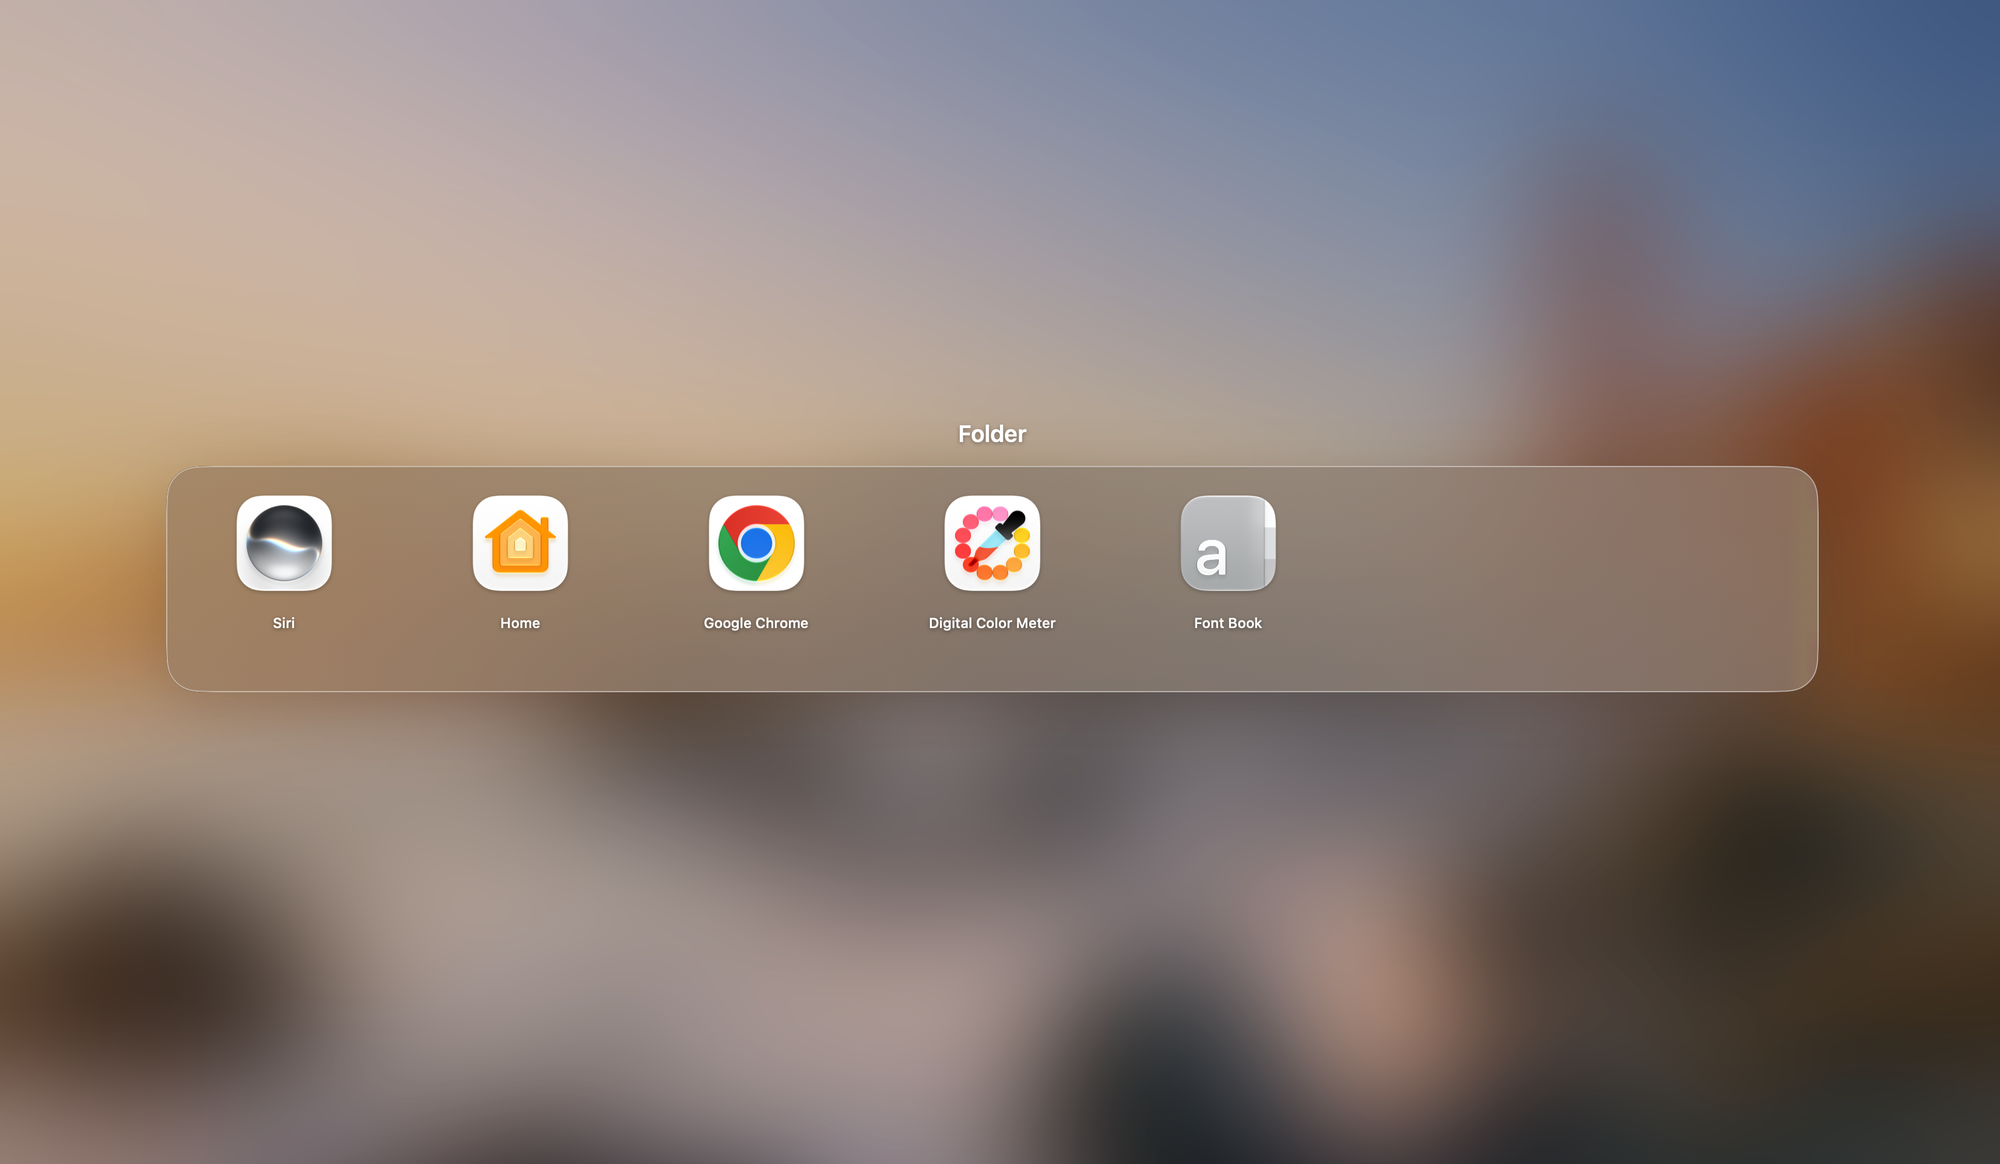
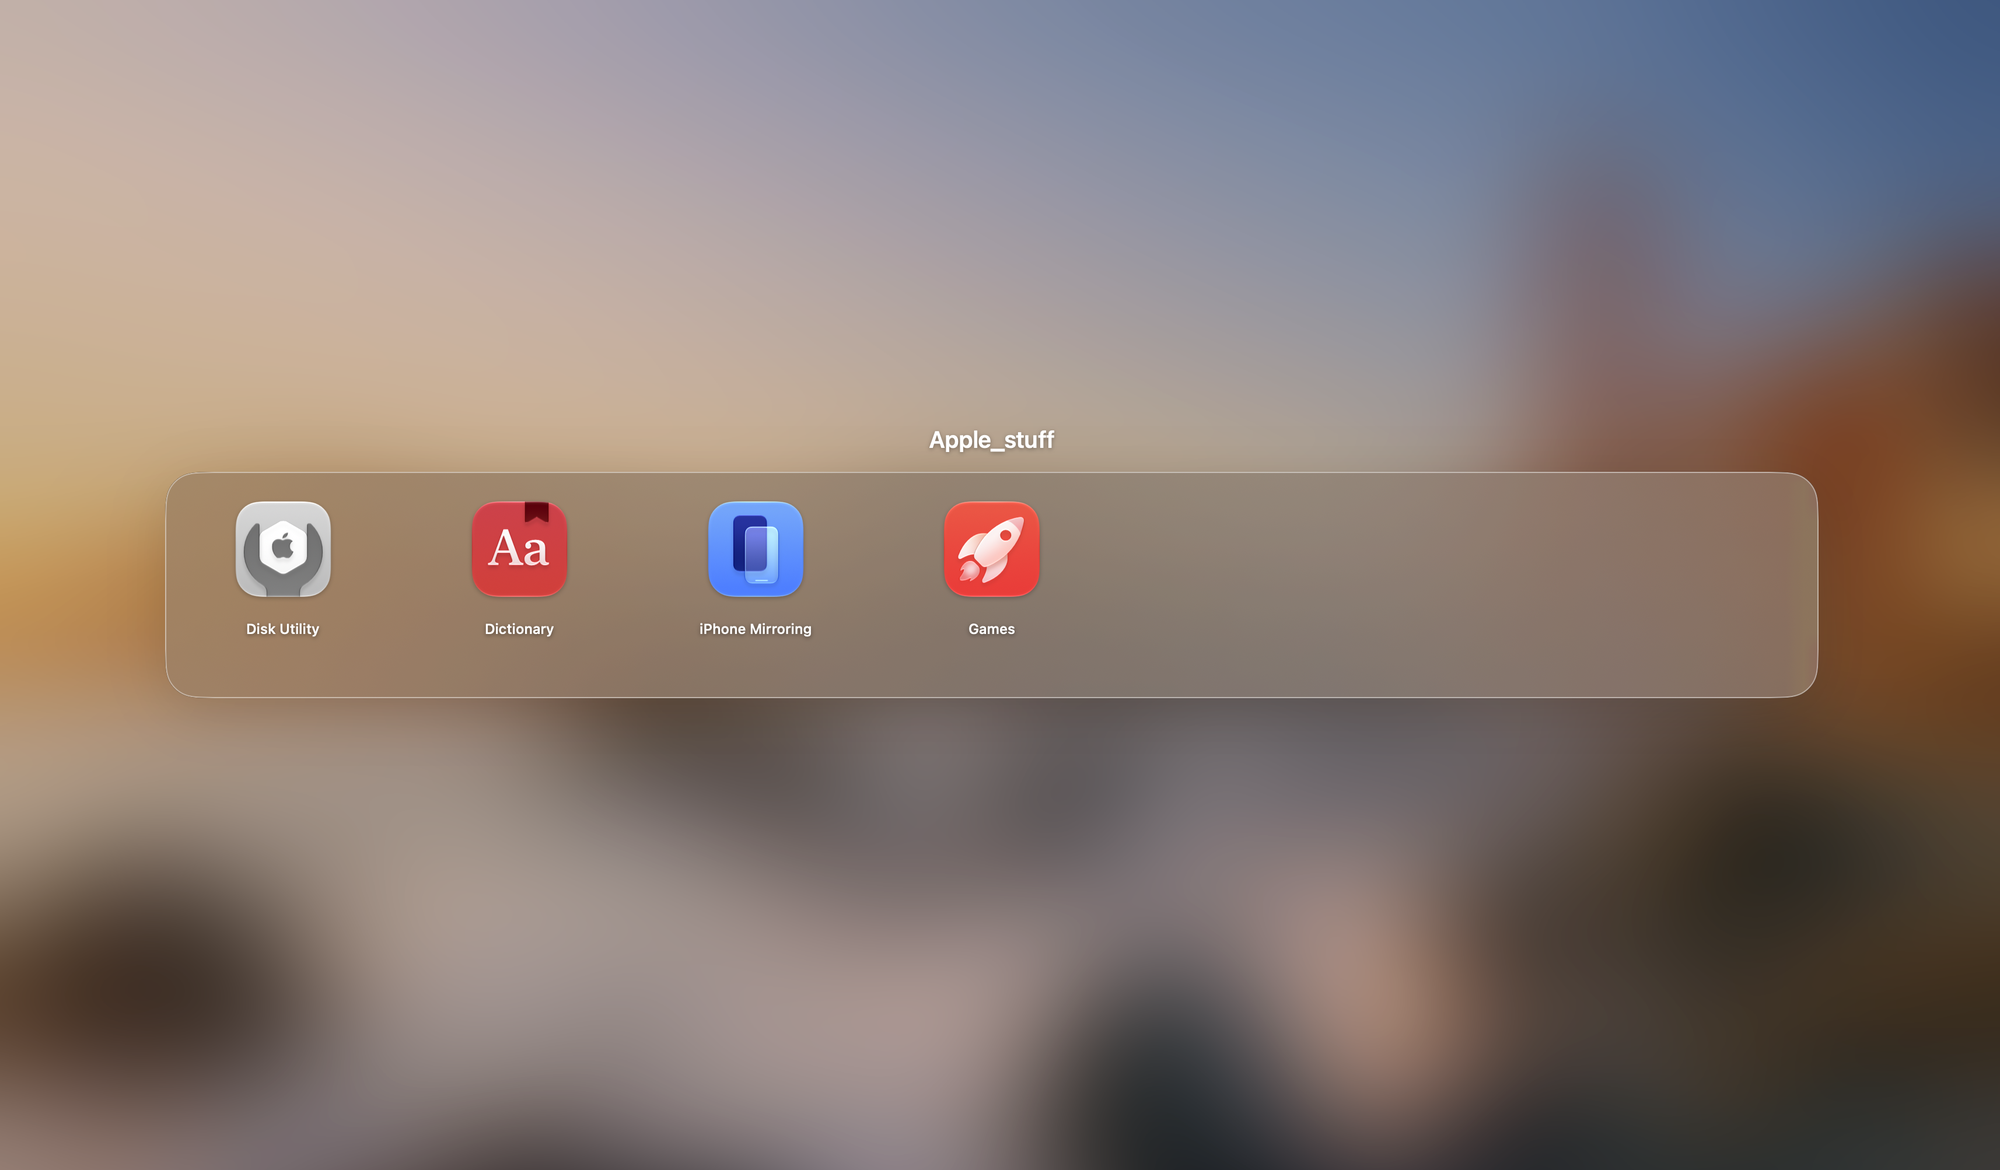
Replace the folder screenshots with the latest three.
The grid shows Apple_stuff and Mixed, the open folder, and the name field used to rename it. The pictures have no camera or location metadata.

diff --git a/README.md b/README.md
@@ -12,9 +12,11 @@ This is version 0.2.0. It is open source, and it is not a finished product.
 
 ![A page of apps in GridBack](docs/images/gridback-grid.png)
 
-![The grid with two folders](docs/images/gridback-folders.png)
+![The grid with the folders Apple_stuff and Mixed](docs/images/gridback-folders.png)
 
-![An open folder](docs/images/gridback-folder-open.png)
+![The open folder Apple_stuff](docs/images/gridback-folder-open.png)
+
+![Rename a folder by clicking its name](docs/images/gridback-folder-rename.png)
 
 These were checked on a real Mac running macOS 27, built with Xcode 27.2.
 
